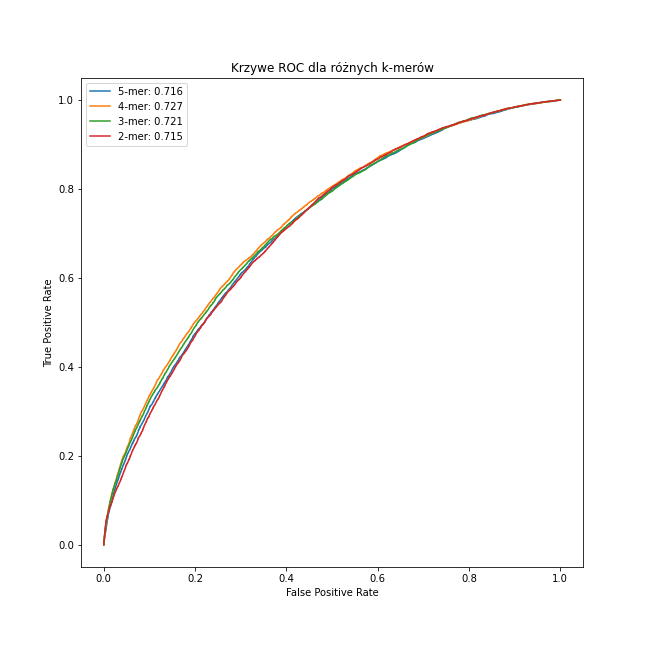
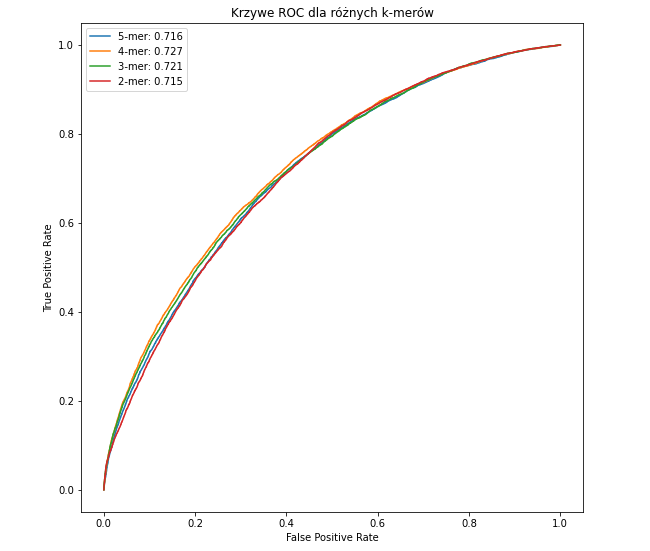
CHANGE ROC PLOT SIZE

diff --git a/service/templates/service/howto.html b/service/templates/service/howto.html
@@ -36,7 +36,7 @@
 
     <section>
         <h3 class="h3 text-secondary">Wybór klasyfikatora</h3>
-        <p class="text-justify">Ponieważ teraz mieliśmy ramki danych zawierające jedynie wartości numeryczne , można
+        <p>Ponieważ teraz mieliśmy ramki danych zawierające jedynie wartości numeryczne , można
             było przejść do
             trenowania klasyfikatora. Wybraliśmy <code>RandomForestClassifier</code>, model oparty na drzewach.
             Zbiór danych został podzielony na treningowy i walidacyjny, stosując proporcje 70 do 30.
@@ -46,8 +46,8 @@
             k, stosując 3-krotną kroswalidację.
             Użyliśmy krzywej ROC (wykres) oraz wartości AUC na zbiorze walidacyjnym jako metryki,
             aby porównać otrzymane modele. Wyniki przedstawia tabela:
-
-        <table class="table table-bordered table-hover table-condensed">
+        </p>
+        <table class="table table-bordered table-hover table-condensed small">
             <caption>Wyniki na zbiorze walidacyjnym</caption>
             <thead>
             <tr>
@@ -85,7 +85,7 @@
                 <td align="right">0.682</td>
                 <td align="right">0.674</td>
                 <td align="right">0.682</td>
-                <td align="right">0.64</td>
+                <td align="right">0.640</td>
 
             </tr>
             <tr>
@@ -100,9 +100,9 @@
             </tbody>
         </table>
 
-         <img src={% static 'service/img/roc.png' %} class="w-100" alt="Image" >
+        <img src="{% static 'service/img/roc.png' %}" class="mx-auto d-block w-50" alt="Image">
 
-        Model wytrenowany na 4-merach osiągnął najlepsze wyniki
+        <p>Model wytrenowany na 4-merach osiągnął najlepsze wyniki
             (AUC = 0.727),
             dlatego został wybrany do dalszych eksperymentów.
         </p>
